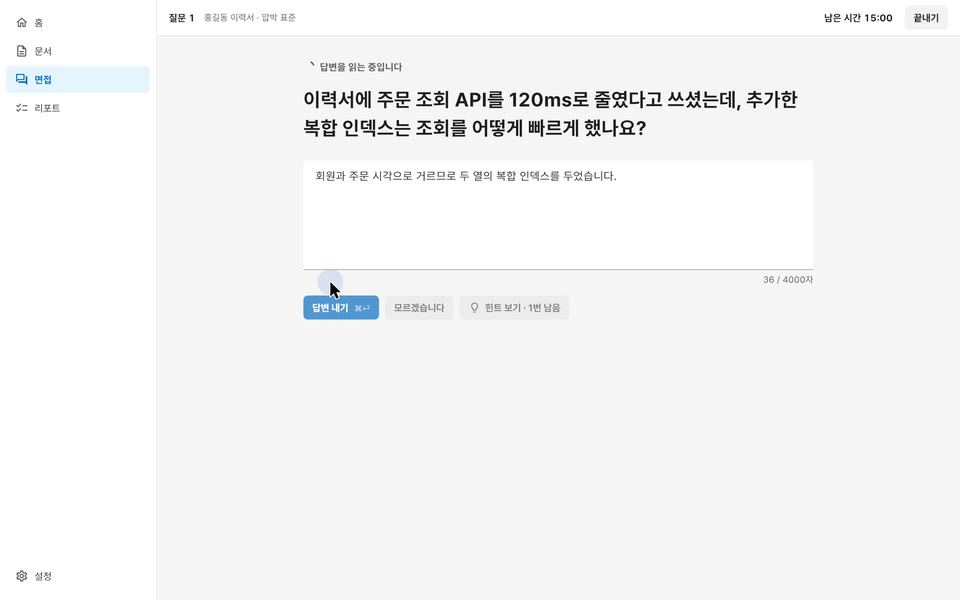
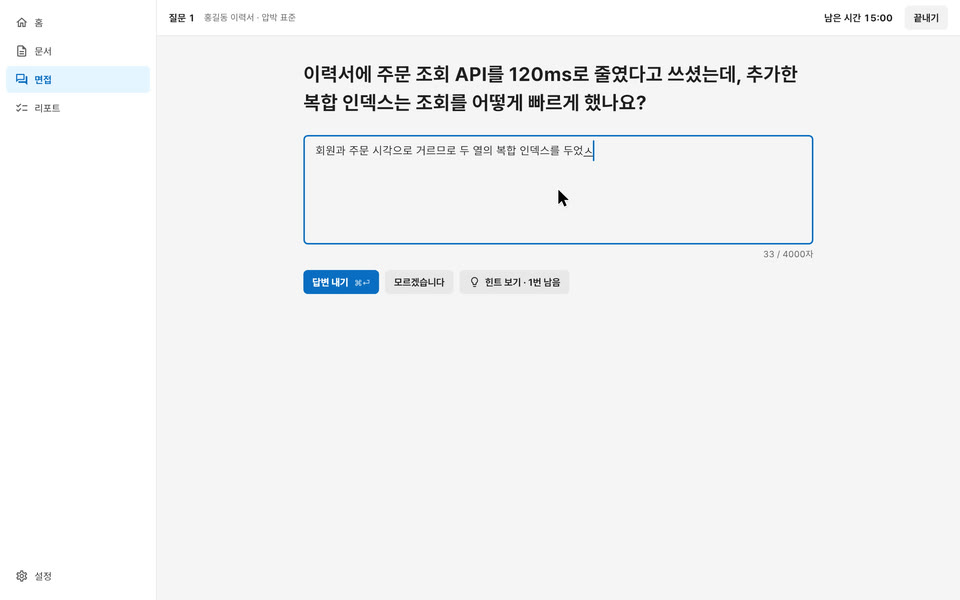
docs: README의 면접과 캔버스 시연을 15초 안으로 줄임 (#66)
- 면접: 기본값과 같은 옵션을 누르는 장면과 두 번째 답을 빼고, 첫 답과 꼬리질문까지 보인다(28초 → 13초).
- 캔버스: 그린 타원을 바로 돌리고, 도형 셋을 끌어서 함께 고르며, 머무는 시간을 줄인다(19초 → 15초).

Fixes #65

diff --git a/app/test/demo/demo_test.dart b/app/test/demo/demo_test.dart
@@ -393,41 +393,38 @@ void main() {
     Offset at(double x, double y) =>
         board.topLeft + Offset(board.width * x, board.height * y);
 
+    // 도구를 고르거나 칸을 누른 뒤에는 오래 머물지 않는다(after: 100).
     s.cut('canvas');
-    await s.click(find.byTooltip('사각형 R'));
-    await s.drag(at(0.1, 0.28), at(0.36, 0.78));
-    await s.click(find.byKey(const Key('color-칠 색')));
+    await s.click(find.byTooltip('사각형 R'), after: 100);
+    await s.drag(at(0.1, 0.28), at(0.36, 0.78), ms: 400);
+    await s.click(find.byKey(const Key('color-칠 색')), after: 100);
     await s.key(LogicalKeyboardKey.keyA, meta: true, show: false);
     await s.type('#6580DD', speed: 3);
     await s.submit();
-    await s.click(find.byTooltip('타원 O'));
-    await s.drag(at(0.5, 0.3), at(0.66, 0.72));
-    await s.click(find.byTooltip('글 T'));
-    await s.clickAt(at(0.1, 0.1));
-    await s.type('홍길동 포트폴리오', speed: 3);
-    await s.key(LogicalKeyboardKey.escape);
-    await s.click(find.byKey(const Key('num-크기')));
-    await s.key(LogicalKeyboardKey.keyA, meta: true, show: false);
-    await s.type('80', speed: 3);
-    await s.submit();
-    await s.clickAt(at(0.58, 0.51));
-    await s.click(find.byKey(const Key('num-각도')));
+    await s.click(find.byTooltip('타원 O'), after: 100);
+    await s.drag(at(0.5, 0.3), at(0.66, 0.72), ms: 400);
+    // 그린 도형은 골라진 채로 남아 바로 돌린다.
+    await s.click(find.byKey(const Key('num-각도')), after: 100);
     await s.key(LogicalKeyboardKey.keyA, meta: true, show: false);
     await s.type('15', speed: 3);
     await s.submit();
-    await s.clickAt(at(0.58, 0.51));
+    await s.click(find.byTooltip('글 T'), after: 100);
+    await s.clickAt(at(0.1, 0.1), after: 100);
+    await s.type('홍길동 포트폴리오', speed: 3);
+    await s.key(LogicalKeyboardKey.escape);
+    await s.click(find.byKey(const Key('num-크기')), after: 100);
+    await s.key(LogicalKeyboardKey.keyA, meta: true, show: false);
+    await s.type('80', speed: 3);
+    await s.submit();
+    await s.clickAt(at(0.58, 0.51), after: 100);
     await s.key(LogicalKeyboardKey.keyC, meta: true);
     await s.key(LogicalKeyboardKey.keyV, meta: true);
-    await s.drag(at(0.59, 0.52), at(0.8, 0.52));
-    // 도형 셋을 ⇧를 누른 채 눌러 함께 고른다.
-    await s.clickAt(at(0.22, 0.5), after: 100);
-    await tester.sendKeyDownEvent(LogicalKeyboardKey.shiftLeft);
-    await s.clickAt(at(0.56, 0.5), after: 100);
-    await s.clickAt(at(0.8, 0.52), after: 100);
-    await tester.sendKeyUpEvent(LogicalKeyboardKey.shiftLeft);
-    await s.click(find.byTooltip('세로 가운데 맞춤 ⌥V'));
-    await s.click(find.byTooltip('가로 간격 고르게'));
-    await s.hold(700);
+    await s.drag(at(0.59, 0.52), at(0.8, 0.52), ms: 300);
+    // 빈 곳에서 도형 셋에 닿게 끌어 함께 고른다(글 상자에는 닿지 않는다).
+    await s.drag(at(0.03, 0.47), at(0.95, 0.55), ms: 300);
+    await s.click(find.byTooltip('세로 가운데 맞춤 ⌥V'), after: 100);
+    await s.click(find.byTooltip('가로 간격 고르게'), after: 100);
+    await s.hold(400);
 
     // 레이어와 대지: 맞춰 붙는 안내선, 이름 바꾸기, 숨기기·잠그기, 묶기, 대지 더하기와 크기.
     s.cut('layers');
@@ -513,42 +510,39 @@ void main() {
     await s.until(() => find.text('연결됨').evaluate().isNotEmpty, '연결됨');
     await s.hold(1500);
 
-    // 면접: 공고 붙여넣기, 준비, 질문에 답하기, 꼬리질문.
+    // 면접: 공고 붙여넣기, 준비, 질문에 답하기, 꼬리질문. 연차와 압박 단계는 기본값(1~3년, 표준)이고,
+    // 시간은 미리 15분으로 둔다. 남은 답은 찍지 않고 넘겨 리포트를 만든다.
+    await s.drive(lib.keep(Setting.ivMinutes, 15));
     s.cut('interview');
-    await s.hold(200);
     await s.click(find.text('공고 추가').first);
-    await s.hold(400);
-    await s.click(find.byType(TextField).last);
+    await s.hold(300);
+    // 글 칸은 열리면서 초점을 받는다.
     await s.key(LogicalKeyboardKey.keyV, meta: true);
-    await s.hold(600);
+    await s.hold(400);
     await s.click(button('추가'));
-    await s.hold(500);
+    await s.hold(300);
     await s.click(find.text('면접 연습으로'));
-    await s.hold(500);
-    await s.click(find.text('1~3년'));
-    await s.click(find.text('옵션'));
-    await s.click(find.text('15분'));
-    await s.click(find.text('표준'));
     await s.hold(300);
     fake.waits['iv.start'] = Future<void>.delayed(
-      const Duration(milliseconds: 1500),
+      const Duration(milliseconds: 900),
     );
     await s.click(button('시작'));
-    await s.hold(1800);
+    await s.hold(1000);
     await s.click(button('시작').last);
     await s.until(() => find.text('질문 1').evaluate().isNotEmpty, '질문 1');
-    await s.hold(1200);
-    Future<void> answer(String text) async {
+    await s.hold(600);
+    Future<void> answer(String text, {int hold = 1800}) async {
       await s.click(find.byType(TextField).last);
       await s.type(text, speed: 3);
       fake.waits['iv.answer'] = Future<void>.delayed(
-        const Duration(milliseconds: 1200),
+        const Duration(milliseconds: 900),
       );
       await s.click(find.text('답변 내기'));
-      await s.hold(1800);
+      await s.hold(hold);
     }
 
-    await answer('회원과 주문 시각으로 거르므로 두 열의 복합 인덱스를 두었습니다.');
+    await answer('회원과 주문 시각으로 거르므로 두 열의 복합 인덱스를 두었습니다.', hold: 1600);
+    s.cut(null);
     await answer('쓸 때마다 인덱스도 고쳐야 해서 쓰기 비용이 늘어납니다.');
     fake.waits['iv.skip'] = Future<void>.delayed(
       const Duration(milliseconds: 900),
